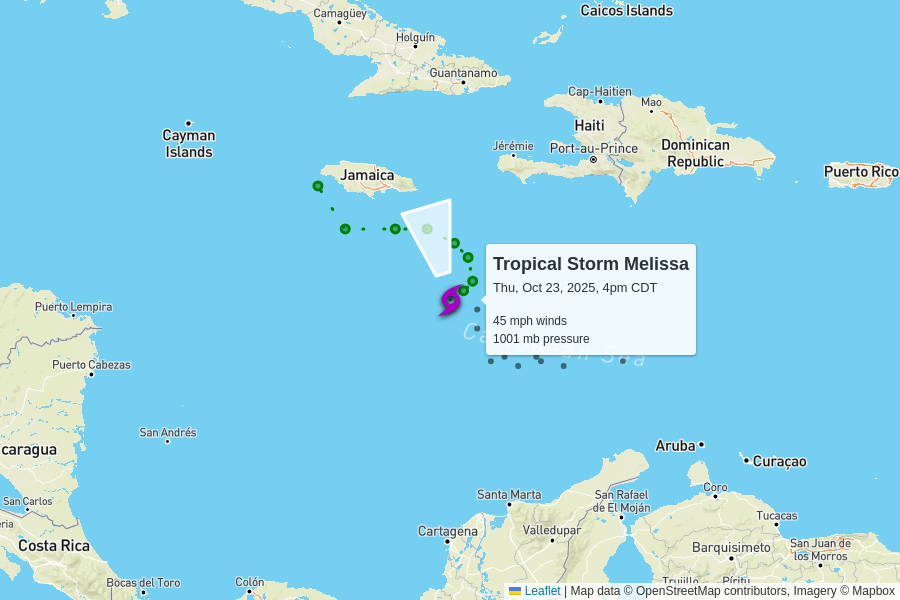
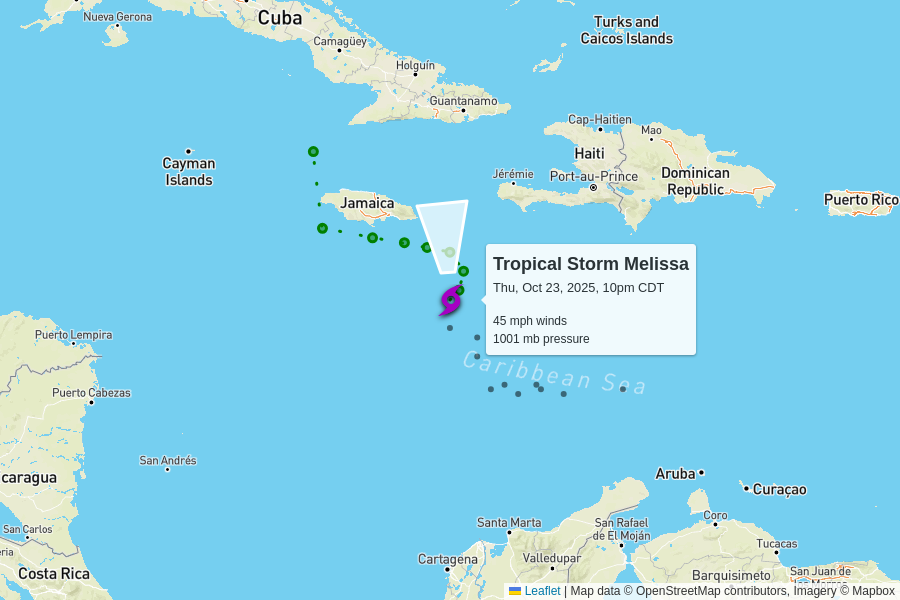
automatic update

diff --git a/docs/index.html b/docs/index.html
@@ -102,7 +102,7 @@
         <td colspan="6" class="storm category-0" >
           <h2>
             Tropical Storm Melissa
-            <p class="updated">last updated <span data-time>2025-10-23T21:00:00.000Z</span></p>
+            <p class="updated">last updated <span data-time>2025-10-24T03:00:00.000Z</span></p>
           </h2>
         </td>
       </tr>
@@ -118,11 +118,11 @@
       <tr>
         <td class="spacer"></td>
         <td>45 mph<br>0 mph since last update</td>
-        <td>1001 mb<br>-2 mb since last update</td>
+        <td>1001 mb<br>0 mb since last update</td>
         <td>
-          2 mph to the north-northwest
+          3 mph to the north
           <br/>
-          <span style="display: inline-block; font-size: 1.5em; transform: rotate(345deg);">↑</span>
+          <span style="display: inline-block; font-size: 1.5em; transform: rotate(355deg);">↑</span>
         </td>
         <td><a href="https://raw.githubusercontent.com/mgwalker/atlantic-hurricanes/main/data/csv/AL132025.csv">AL132025.csv</a></td>
         <td><a href="https://www.nhc.noaa.gov/archive/2025/MELISSA.shtml?">NHC advisories</a></td>
